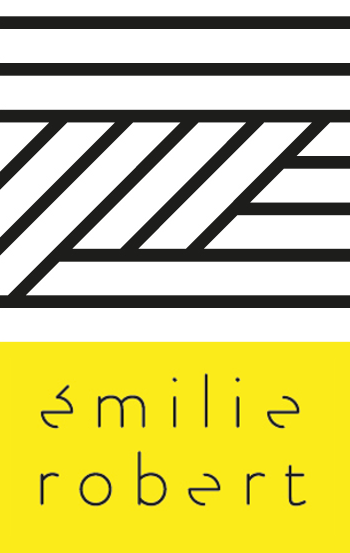
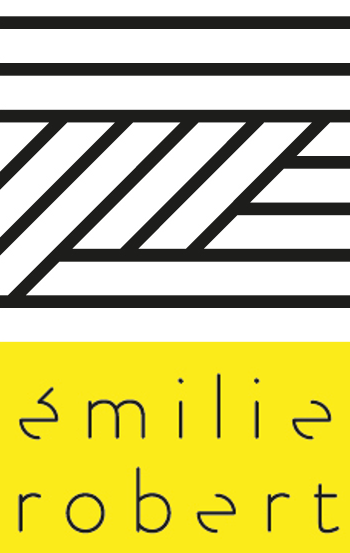
Responsive

diff --git a/Inte/css/style.css b/Inte/css/style.css
@@ -76,7 +76,7 @@ p#sousTitre {
 }
 
 #logoNom {
-	width: 100px;
+	width: 110px;
 	margin-top: 17px;
 }
 
@@ -94,7 +94,7 @@ div.clear {
 }
 
 .container {
-	width: 90%;
+	width: 80%;
 	margin-right: auto;
 	margin-left: auto;
 }
@@ -134,6 +134,10 @@ a {
 
 	@media screen and (min-width: 768px) {
 
+
+	.container {
+		width: 90%;
+	}
 
 	/*
 
@@ -202,13 +206,12 @@ a {
 	footer {
 		margin-top: 220px;
 		background-color: #fbeb1a;
-		height: 600px;
+		height: 450px;
 		text-align: center;
 		font-family: "Brandon Grotesque";
 	}
 
 	#sectionFooter {
-		width: 400px;
 		margin: 0 auto;
 		justify-content: space-around;
 
@@ -216,19 +219,34 @@ a {
 
 	footer #logoFooter {
 		position: relative;
-		top: -83px;
-		width: 110px;
+		top: -45px;
+		width: 9%;
 
 	}
 
 	footer #infosFooter {
-		margin-top: -83px;
+		margin: -45px auto 0 auto;
+		display: flex;
+		flex-flow: row wrap;
+		justify-content: center;
+	}
+
+	#infosFooter div {
+		padding: 10px;
+		align-self: center;
+	}
+
+	#infosFooter div:first-child {
+		width: 100%;
 	}
 
 	footer #infosFooter p {
-		font-size: 2rem;
+		font-size: 1.8rem;
 		margin: 5px;
 	}
+
+
+
 
 	footer #navFooter , #navFooter2 {
 		width: 600px;
@@ -239,7 +257,7 @@ a {
 
 	footer #navFooter {
 		display: flex;
-		flex-flow: row nowrap;
+		flex-flow: row wrap;
 		justify-content: center;
 	}
 
@@ -253,6 +271,10 @@ a {
 
 
 	/******** ACCUEIL SLIDER PRESENTATION IPAD *****/
+
+	.container {
+		width: 90%;
+	}
 
 	#blocImageAccueil {
 		padding-top: 130px;
@@ -289,10 +311,10 @@ a {
 
 
 	#mosaique {
-		padding-top: 100px;
+		padding-top: 50px;
 		display: flex;
 		flex-flow: row wrap;
-		justify-content: space-around;
+		justify-content: space-between;
 	}
 
 	#mosaique .imageMosaique {
@@ -310,7 +332,7 @@ a {
 		position: absolute;
 		top: 20px;
 		left: 0px;
-		font-size: 2.8rem;
+		font-size: 2.2rem;
 		width: 80%
 	}
 
@@ -364,7 +386,25 @@ a {
 
 		/*** HEADER PETIT DESK ***/
 
+	p#sousTitre , #navDesktop ul a {
+		font-size: 2.5rem;
+	}
 
+	#introduction {
+		width: 500px;
+	}
+
+	#introduction p {
+		font-size: 2.3rem;
+	}
+
+	#logo {
+		padding-left: 35px;
+	}
+
+	#infosFooter #tel p {
+		font-size: 1.3rem;
+	}
 
 	/** FOOTER PETIT DESKTOP **/
 
@@ -387,14 +427,17 @@ a {
 /*************************************************************/
 
 
-			@media screen and (min-width: 1500px) {
+			@media screen and (min-width: 1400px) {
 
 			/*********************** ACCUEIL GD **************************/
 
+			.container {
+					width: 80%;
+				}
 
 			#blocCentreHeader {
 				width: 80%;
-				height: 150px;
+				height: 120px;
 				margin: 10px auto;
 				display: flex;
 				justify-content: space-between;
@@ -402,36 +445,38 @@ a {
 
 			#logo {
 				padding-left: 17px;
+				width: 90px;
 			}
 
 			#blocLogoTitre {
 				display: flex;
-				width: 415px;
-			
+				width: 415px;		
 			}
 
 			#blocLogoTitre h1 {
 				float: left;
 				padding-top: 52px;
 				margin: 0;
-
 			}
 
 			#navMobile {
 				display: none;
 			}
 
+			#navDesktop ul a , p#sousTitre {
+				font-size: 2.8rem;
+			}
+
 			#navDesktop ul {	
 				display: flex;
 				flex-direction: row;
-				padding: 58px 12px 0 0;	
+				padding: 43px 12px 0 0;	
 				margin: 0;
 				list-style: none;
 			}
 
 			#navDesktop ul a {
 				font-family: "Brandon Grotesque";
-				font-size: 2.8rem;
 				padding-left: 15px;
 			}
 
@@ -451,23 +496,29 @@ a {
 			footer {
 				margin-top: 220px;
 				background-color: #fbeb1a;
-				height: 600px;
+				height: 490px;
 				text-align: center;
 				font-family: "Brandon Grotesque";
 			}
 
 			#sectionFooter {
-				width: 400px;
+				width: 1000px;
 				margin: 0 auto;
 				justify-content: space-around;
-
 			}
 
 			footer #logoFooter {
 				position: relative;
 				top: -83px;
 				width: 110px;
+			}
 
+			#infosFooter div {
+				width: 400px;
+			}
+			
+			#infosFooter #tel p {
+				font-size: 1.6rem;
 			}
 
 			footer #infosFooter {
@@ -482,14 +533,7 @@ a {
 			footer #navFooter , #navFooter2 {
 				width: 600px;
 				margin: 10px auto;
-				font-size: 2.5rem;
-			
-			}
-
-			footer #navFooter {
-				display: flex;
-				flex-flow: row nowrap;
-				justify-content: center;
+				font-size: 2.5rem;		
 			}
 
 			footer #navFooter a , #navFooter2 a {
@@ -503,7 +547,7 @@ a {
 		/******** ACCUEIL SLIDER PRESENTATION GRAND DESKTOP *****/
 
 			#blocImageAccueil {
-				padding-top: 166px;
+				padding-top: 132px;
 				display: block;
 			}
 
@@ -540,12 +584,11 @@ a {
 				padding-top: 100px;
 				display: flex;
 				flex-flow: row wrap;
-				justify-content: space-around;
+				justify-content: space-between;
 			}
 
 			#mosaique .imageMosaique {
 				position: relative;
-				width: 632px;
 				margin-top: 80px;
 			}
 

diff --git a/Inte/footer.php b/Inte/footer.php
@@ -4,15 +4,27 @@
 			<section id="sectionFooter">
 				<img id="logoFooter" src="img/ER_jaunePourFooter.png">
 				<article id="infosFooter">
-					<p>06 07 94 07 96</p>
-					<p>contact@emilie-robert.fr</p>
-					<p>88 rue Anatole France, 38100 Grenoble</p>
-					<p>/</p>
-					<p>44 A rue du Haut Rochassin, 38660 Saint-Vincent-de-Mercuze</p>
-					<p>/</p>
-					<p>Zone d'intervention :</p>
-					<p>Grenoble et sa région, Grésivaudan, Chambéry</p>
-					<p>Ouvert du lundi au vendredi de 9h à 18h</p>
+					<div id="tel">
+						<p>06 07 94 07 96</p>
+					</div>
+					
+					<div>
+						<p>88 rue Anatole France, </p>
+						<p>38100 Grenoble</p>
+						<img src="img/LogoFooterMini15.png" alt="Émilie Robert">
+						<p>44 A rue du Haut Rochassin,</p>
+						<p> 38660 Saint-Vincent-de-Mercuze</p>
+					</div>
+					
+					<div>
+						<p>Zone d'intervention :</p>
+						<p>Grenoble et sa région, Grésivaudan, Chambéry</p>
+						<img src="img/LogoFooterMini15.png" alt="Émilie Robert">
+						<p>Ouvert du lundi au vendredi de 9h à 18h</p>
+						<p>Membre de la coopérative d'activité Cabestan</p>
+					</div>
+
+					
 				</article>
 			</section>
 			
@@ -21,18 +33,19 @@
 				<a href="https://fr-fr.facebook.com/"><i class="fab fa-facebook-square"></i></a>
 				<a href="https://www.instagram.com"><i class="fab fa-instagram"></i></a>
 				<a href="https://www.houzz.com"><i class="fab fa-houzz"></i></a>
+				<a href="http://projets.cotemaison.fr/"> Côté maison projets</a>
+				<a href="https://www.cabestan.fr/">Cabestan</a>
 
 			</nav>
 
 			<nav id="navFooter2">
-				<a href="http://projets.cotemaison.fr/"> Côté maison projets</a> - 
-				<a href="https://www.cabestan.fr/">Cabestan</a>
+				
 			</nav>
 
 			<div id="copyright">
 
-				<p>Site réalisé par Jean Annaix</p>
-				<p></p>
+				<p id="signature">Site réalisé par Jean Annaix</p>
+				
 			</div>
 
 

diff --git a/Inte/header.php b/Inte/header.php
@@ -19,7 +19,7 @@
 
 	<header>
 		
-		<div id="blocCentreHeader">
+		<div id="blocCentreHeader" class="container">
 
 			<div id="blocLogoTitre">
 				<a href="index.php"><img id="logoNom" src="img/LogoNom.png"></a>
